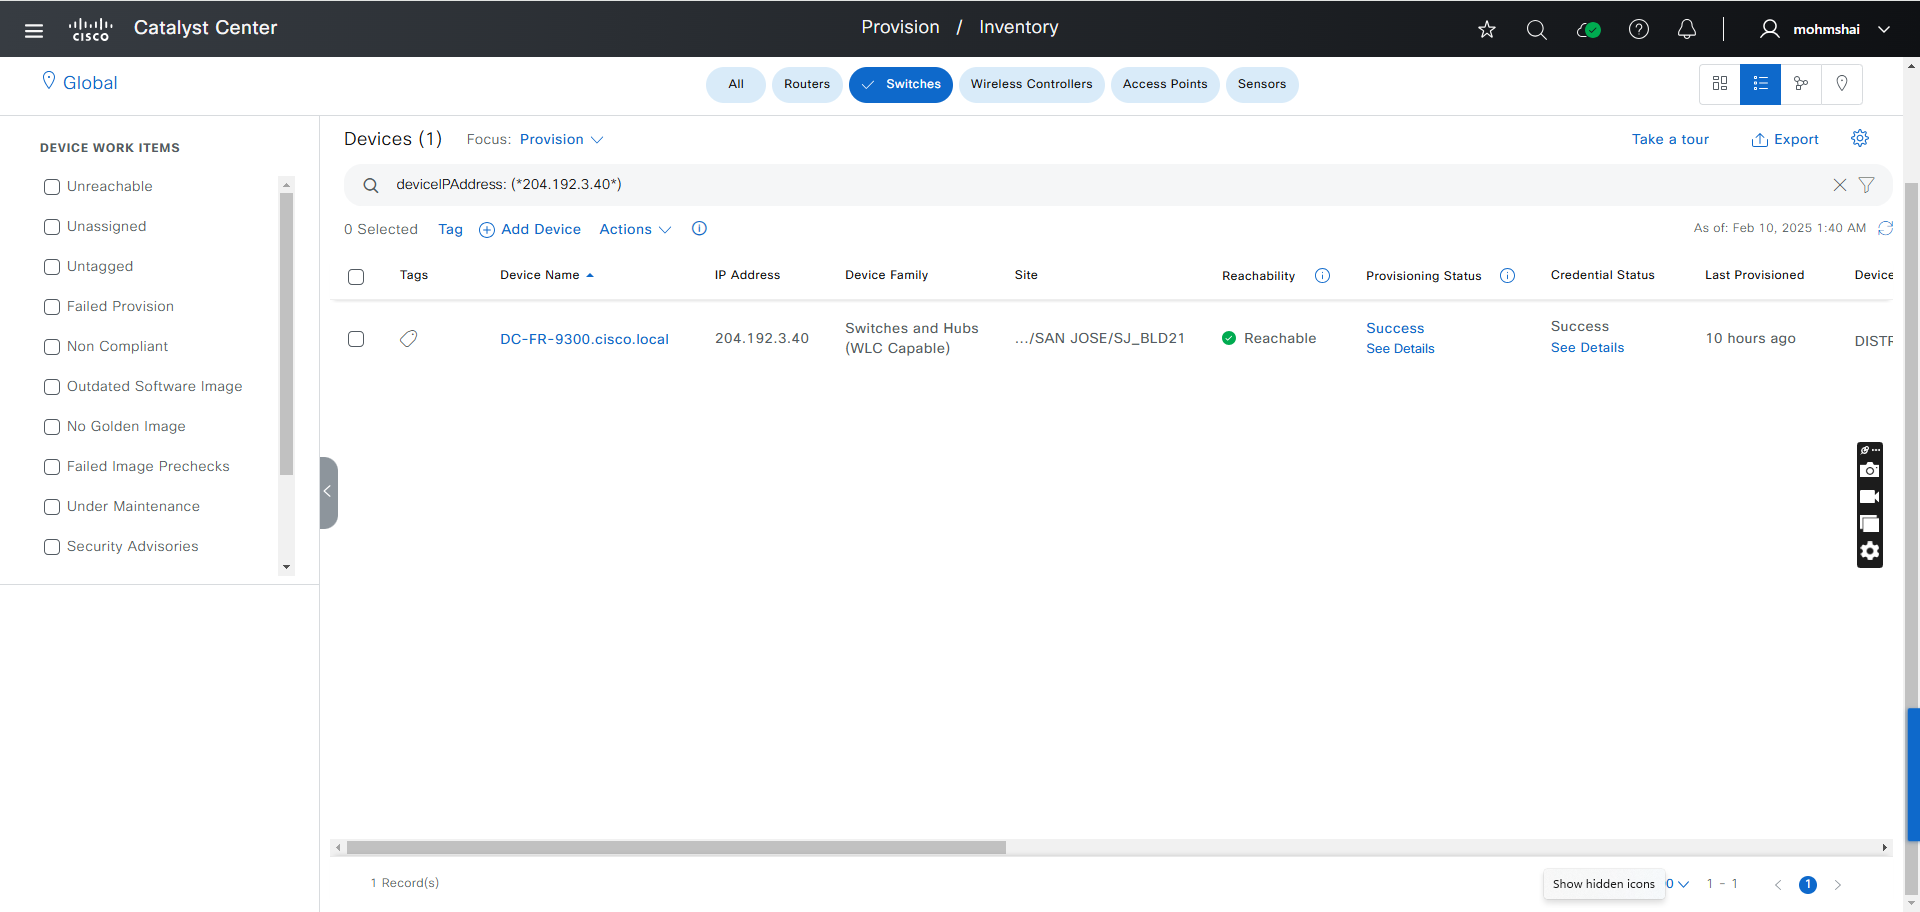
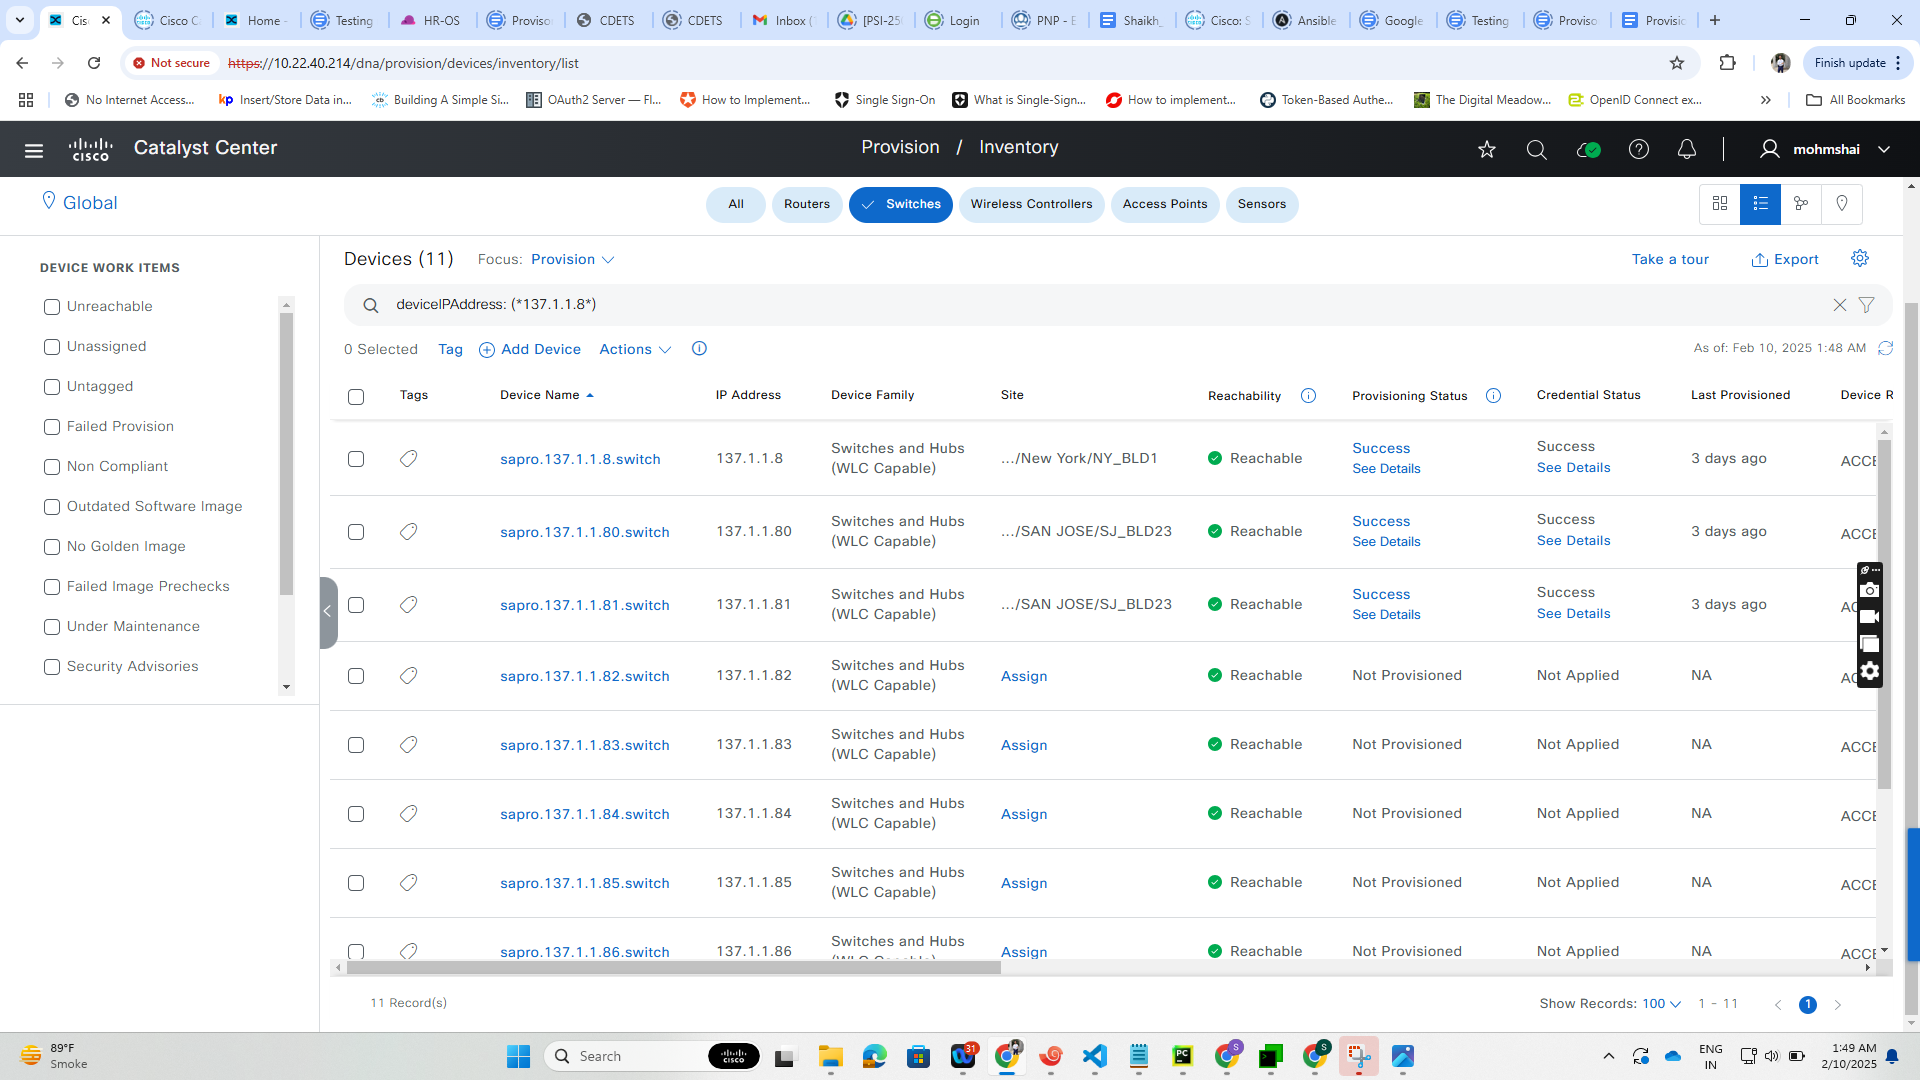
Added example input, execution command and refrence in readme file, also updated wlc device secition in provision_workflow input

diff --git a/workflows/provision/README.md b/workflows/provision/README.md
@@ -31,7 +31,7 @@ ansible-playbook -i host_inventory_dnac1/hosts.yml workflows/provision/playbook/
 - **dnac_debug**: Enables or disables debug mode.  
 - **dnac_log**: Enables or disables logging for Catalyst Center. 
 
-##The Sample host_inventory_dnac1/hosts.yml
+### The Sample host_inventory_dnac1/hosts.yml
 
 ```bash
 catalyst_center_hosts:
@@ -70,7 +70,7 @@ User Inputs for Users and roles are stored in  workflows/provision/vars/provisio
 - **primary_managed_ap_locations**: Site locations assigned to primary managed APs.  
 - **secondary_managed_ap_locations**: Site locations assigned to secondary managed APs.
 
-Operations Overview
+## Operations Overview
 
 ## Provisioning:
 #### Assigns device to a site and configures them.
@@ -87,7 +87,7 @@ Provision configuration can be verified in the UI.
 
 ![alt text](images/Detailed_device_provision.png)
 
-### Example:
+### Example: Wired device
 #### ** Input (YAML) **
 ```bash
 provision_details:
@@ -95,6 +95,24 @@ provision_details:
     management_ip_address: 204.192.3.40
     provisioning: True
 ```
+
+### Example: Wireless device
+#### ** Input (YAML) **
+```bash
+provision_details:
+  - site_name_hierarchy: Global/USA/SAN JOSE/SJ_BLD21
+    management_ip_address: 204.192.4.200
+    managed_ap_locations:
+      - Global/USA/SAN JOSE/SJ_BLD21/FLOOR1
+      - Global/USA/SAN JOSE/SJ_BLD21/FLOOR2
+      - Global/USA/SAN JOSE/SJ_BLD21/FLOOR3
+      - Global/USA/SAN JOSE/SJ_BLD21/FLOOR4
+```
+
+### How to run
+#### ** cmd to run playbook **
+
+ansible-playbook -i ./inventory/demo_lab/inventory_demo_lab.yml ./workflows/provision/playbook/provision_workflow_playbook.yml --extra-vars VARS_FILE_PATH=./../vars/provision_workflow_inputs.yml -vvvv
 
 Upon successfull completion, the output will be.
 
@@ -116,7 +134,21 @@ Step2: Execute the site assignment playbook. Upon successful completion, the dev
 Device site assignment details can be verified
 
 ![alt text](images/Detail_site_Assignment.png)
-    
+
+### Example: Wired device
+#### ** Input (YAML) **
+```bash
+provision_details:
+  - site_name_hierarchy: Global/USA/SAN JOSE/SJ_BLD23
+    management_ip_address: 204.192.4.200
+    provisioning: False 
+```
+
+### How to run
+#### ** cmd to run playbook **
+
+ansible-playbook -i ./inventory/demo_lab/inventory_demo_lab.yml ./workflows/provision/playbook/provision_workflow_playbook.yml --extra-vars VARS_FILE_PATH=./../vars/provision_workflow_inputs.yml -vvvv
+
 ## Device Re_Provision:
 #### Re-provision an already provisioned device.
 
@@ -132,11 +164,39 @@ Reprovision Device detail can be verified
 
 ![alt text](images/Detail_device_reprovision.png)
 
+### Example: Wired device
+#### ** Input (YAML) **
+```bash
+reprovision_details:
+  - site_name_hierarchy: Global/USA/SAN JOSE/SJ_BLD21
+    management_ip_address: 137.1.1.72
+    force_provisioning: True
+```
+
+### Example: Wireless device
+#### ** Input (YAML) **
+```bash
+reprovision_details:
+  - site_name_hierarchy: Global/USA/SAN JOSE/SJ_BLD21
+    management_ip_address: 204.192.4.200
+    managed_ap_locations:
+      - Global/USA/SAN JOSE/SJ_BLD21/FLOOR1
+      - Global/USA/SAN JOSE/SJ_BLD21/FLOOR2
+      - Global/USA/SAN JOSE/SJ_BLD21/FLOOR3
+      - Global/USA/SAN JOSE/SJ_BLD21/FLOOR4
+    force_provisioning: True
+```
+
+### How to run
+#### ** cmd to run playbook **
+
+ansible-playbook -i ./inventory/demo_lab/inventory_demo_lab.yml ./workflows/provision/playbook/reprovision_workflow_playbook.yml --extra-vars VARS_FILE_PATH=./../vars/re_provision_workflow_inputs.yml -vvvv
+
 Upon successful completion, the output will be.
 
 
-"msg": "Re-Provision for device '137.1.1.8' done successfully",
-"response": "Wired Device '137.1.1.8' re-provisioning completed successfully."
+"msg": "Re-Provision for device '137.1.1.72' done successfully",
+"response": "Wired Device '137.1.1.72' re-provisioning completed successfully."
 
 ## Device Un_Provision:
 #### Un_provision the provisioned device.
@@ -148,6 +208,18 @@ Step1: The device is in provisioned state
 Step2: After the unprovision operation, the device will be removed from the inventory
 
 ![alt text](images/Device_unprovisioned.png)
+
+### Example: Wired device
+#### ** Input (YAML) ** 
+```bash
+unprovision_details:
+  - management_ip_address: 137.1.1.12
+```
+
+### How to run
+#### ** cmd to run playbook **
+
+ansible-playbook -i ./inventory/demo_lab/inventory_demo_lab.yml ./workflows/provision/playbook/delete_provision_workflow_playbook.yml --extra-vars VARS_FILE_PATH=./../vars/un_provision_workflow_inputs.yml -vvvv
 
 Upon successfull completetion, the playbook will return the following response
 
@@ -167,4 +239,17 @@ workflows/provision/vars/provision_workflow_inputs.yml
 yamale   -s workflows/provision/schema/provision_workflow_schema.yml  workflows/provision/vars/provision_workflow_inputs.yml
 Validating /Users/pawansi/dnac_ansible_workflows/workflows/provision/vars/provision_workflow_inputs.yml...
 Validation success! 👍
+```
+
+## Reference 
+The enviornment used for the references in above examples.
+
+```bash
+ansible: 9.9.0
+ansible-runner: 2.4.0
+ansible-core: 2.16.10
+
+dnacentersdk: 2.8.3
+cisco.dnac: 6.27.0
+ansible.utils: 5.1.2
 ```
